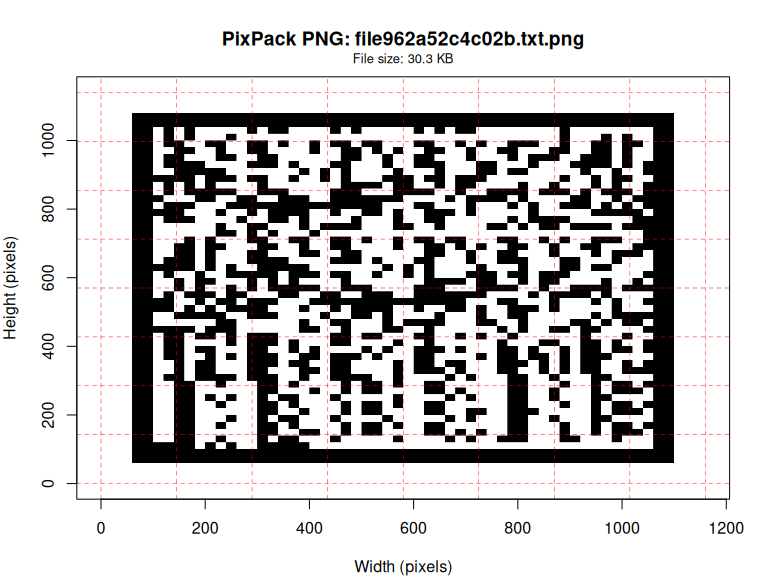
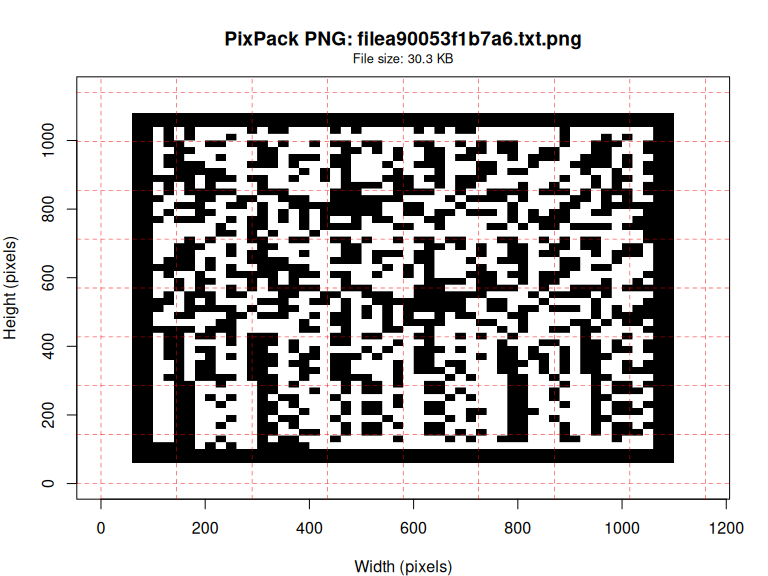
sync

diff --git a/README.md b/README.md
@@ -29,27 +29,29 @@ library(Rpixpack)
 ``` r
 # Encode text to PNG
 png_file <- tempfile(fileext = ".png")
-result <- pixpack_text("Hello, PixPack from R! 🚀📊", png_file)
+result <- pixpack_text("Hello, PixPack from R! Testing encoding.", png_file)
 #> Encoding text to PNG...
-#> Created PNG: /tmp/Rtmpv2sDqC/file962a76aa040f.png
+#> Created PNG: /tmp/RtmpyRUImC/filea900407e753f.png
 cat("Created PNG:", result, "\n")
-#> Created PNG: /tmp/Rtmpv2sDqC/file962a76aa040f.png
+#> Created PNG: /tmp/RtmpyRUImC/filea900407e753f.png
 
 # Decode PNG back to text
 decoded <- pixpack_text(png_path = png_file)
 #> Decoding PNG to text...
-#> Decoded 25 characters
+#> Decoded 40 characters
 cat("Decoded text:", decoded, "\n")
-#> Decoded text: Hello, PixPack from R! 🚀📊
+#> Decoded text: Hello, PixPack from R! Testing encoding.
+cat("Text preserved:", identical("Hello, PixPack from R! Testing encoding.", decoded), "\n")
+#> Text preserved: TRUE
 
 # Show file info
 info <- pixpack_info(png_file)
 print(info)
 #> PixPack File Info:
-#>   File: file962a76aa040f.png 
-#>   Size: 26.28 KB
+#>   File: filea900407e753f.png 
+#>   Size: 26.71 KB
 #>   Type: Possibly PixPack PNG (use pixpack_plot for visualization) 
-#>   Modified: 2025-08-14 20:01:42
+#>   Modified: 2025-08-14 20:08:01
 ```
 
 ### File Encoding Example
@@ -69,12 +71,12 @@ writeLines(test_content, test_file)
 # Encode file to PNG
 png_result <- pixpack_convert(test_file, verbose = TRUE)
 #> Encoding file to PNG...
-#> Output: /tmp/Rtmpv2sDqC/file962a52c4c02b.txt.png
+#> Output: /tmp/RtmpyRUImC/filea90053f1b7a6.txt.png
 
 # Decode PNG back to original file
 decoded_file <- pixpack_convert(png_result, verbose = TRUE)
 #> Decoding PNG to original file...
-#> Output: /tmp/Rtmpv2sDqC/file962a52c4c02b.txt
+#> Output: /tmp/RtmpyRUImC/filea90053f1b7a6.txt
 
 # Verify the content is preserved
 original_content <- readLines(test_file)
@@ -105,12 +107,12 @@ writeBin(binary_data, binary_file)
 # Encode binary file
 png_binary <- pixpack_convert(binary_file, verbose = TRUE)
 #> Encoding file to PNG...
-#> Output: /tmp/Rtmpv2sDqC/file962a7b8f0bef.bin.png
+#> Output: /tmp/RtmpyRUImC/filea9005dfca97f.bin.png
 
 # Decode and verify
 decoded_binary <- pixpack_convert(png_binary, verbose = TRUE)
 #> Decoding PNG to original file...
-#> Output: /tmp/Rtmpv2sDqC/file962a7b8f0bef.bin
+#> Output: /tmp/RtmpyRUImC/filea9005dfca97f.bin
 original_binary <- readBin(binary_file, "raw", n = length(binary_data))
 restored_binary <- readBin(decoded_binary, "raw", n = length(binary_data))
 
@@ -126,18 +128,18 @@ cat("Restored length:", length(restored_binary), "bytes\n")
 
 ``` r
 # Test direct API functions
-test_text <- "Direct API test: 你好世界! 🎉"
+test_text <- "Direct API test with special chars: Hello World! @#$%^&*()"
 direct_png <- tempfile(fileext = ".png")
 
 # Use StringConversion directly
 result_path <- StringConversion(test_text, direct_png)
 cat("StringConversion result:", result_path, "\n")
-#> StringConversion result: /tmp/Rtmpv2sDqC/file962a666a8030.png
+#> StringConversion result: /tmp/RtmpyRUImC/filea9002bad9874.png
 
 # Decode using StringConversion
 decoded_text <- StringConversion("", direct_png)
 cat("Decoded text:", decoded_text, "\n")
-#> Decoded text: Direct API test: 你好世界! 🎉
+#> Decoded text: Direct API test with special chars: Hello World! @#$%^&*()
 cat("Roundtrip success:", identical(test_text, decoded_text), "\n")
 #> Roundtrip success: TRUE
 
@@ -147,12 +149,12 @@ writeLines(c("# Test Document", "This is a test.", "Line 3"), test_doc)
 
 direct_png2 <- fileConversion(test_doc)
 cat("fileConversion created:", direct_png2, "\n")
-#> fileConversion created: /tmp/Rtmpv2sDqC/file962a4fd0371d.txt.png
+#> fileConversion created: /tmp/RtmpyRUImC/filea9005446bc70.txt.png
 
 # Decode back
 restored_doc <- fileConversion(direct_png2)
 cat("fileConversion restored:", restored_doc, "\n")
-#> fileConversion restored: /tmp/Rtmpv2sDqC/file962a4fd0371d.txt
+#> fileConversion restored: /tmp/RtmpyRUImC/filea9005446bc70.txt
 
 # Verify content
 original_lines <- readLines(test_doc)
@@ -172,7 +174,7 @@ large_png <- tempfile(fileext = ".png")
 start_time <- Sys.time()
 large_result <- pixpack_text(large_text, large_png, verbose = TRUE)
 #> Encoding text to PNG...
-#> Created PNG: /tmp/Rtmpv2sDqC/file962a6b5aafd1.png
+#> Created PNG: /tmp/RtmpyRUImC/filea900fe85e.png
 encode_time <- Sys.time() - start_time
 
 # Measure decoding time
@@ -185,18 +187,24 @@ decode_time <- Sys.time() - start_time
 cat("Large text length:", nchar(large_text), "characters\n")
 #> Large text length: 2900 characters
 cat("Encoding time:", round(as.numeric(encode_time, units = "secs"), 3), "seconds\n")
-#> Encoding time: 0.33 seconds
+#> Encoding time: 0.254 seconds
 cat("Decoding time:", round(as.numeric(decode_time, units = "secs"), 3), "seconds\n")
-#> Decoding time: 0.172 seconds
+#> Decoding time: 0.153 seconds
 cat("Large text preserved:", identical(large_text, large_decoded), "\n")
 #> Large text preserved: TRUE
 
 # Show file sizes
 png_size <- file.info(large_png)$size
 cat("PNG file size:", round(png_size / 1024, 1), "KB\n")
-#> PNG file size: 257.3 KB
+#> PNG file size: 257.4 KB
 cat("Compression ratio:", round(nchar(large_text) / png_size, 2), "\n")
 #> Compression ratio: 0.01
+
+# Additional verification - ensure byte-for-byte accuracy
+original_bytes <- charToRaw(large_text)
+decoded_bytes <- charToRaw(large_decoded)
+cat("Byte-level identical:", identical(original_bytes, decoded_bytes), "\n")
+#> Byte-level identical: TRUE
 ```
 
 ## Core Functions
